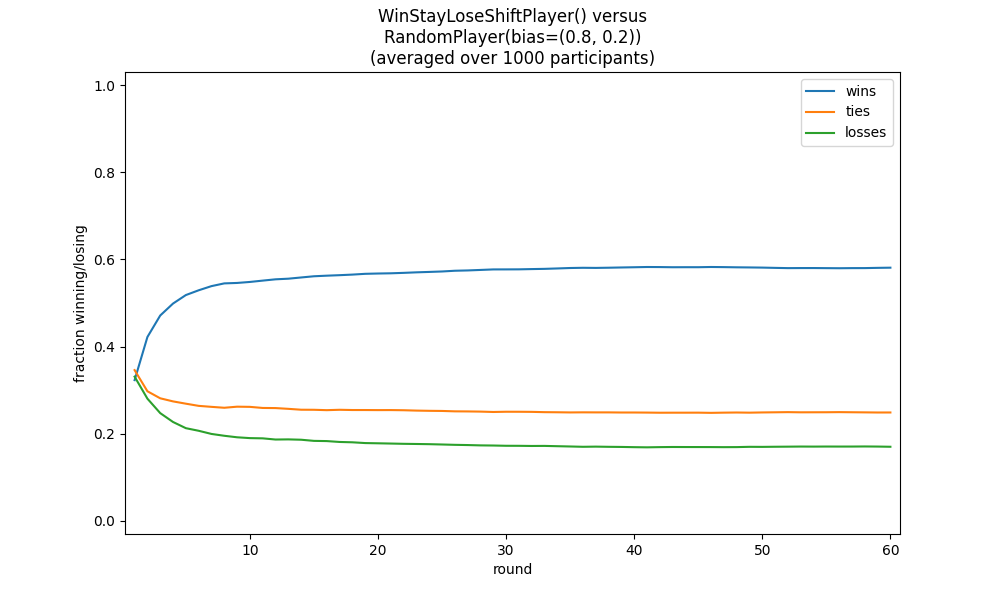
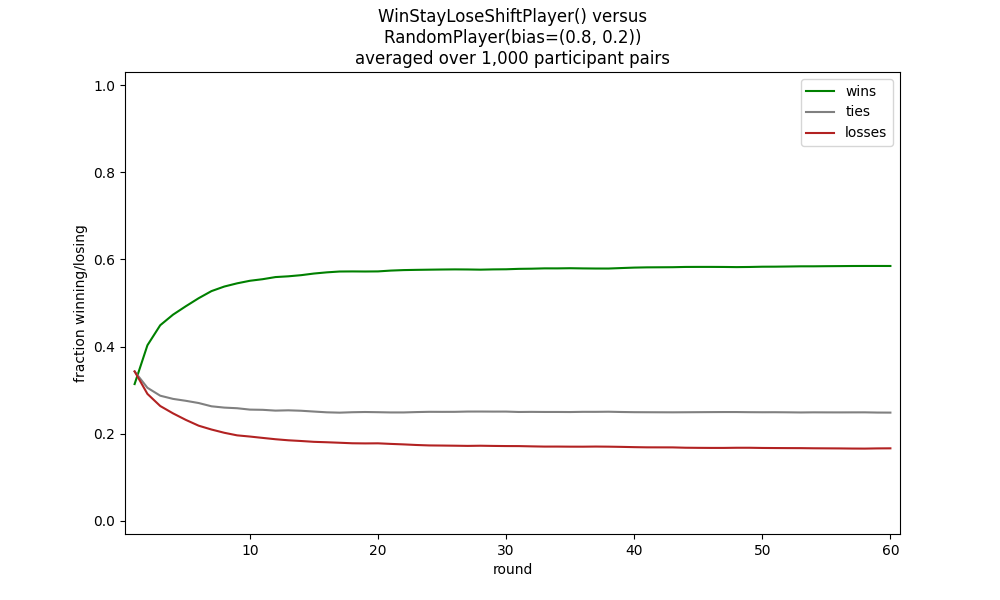
improve the title in the RPS graph slightly

diff --git a/examples/rps/rps_game.py b/examples/rps/rps_game.py
@@ -163,7 +163,7 @@ def main(player1, player2, rounds=1, participants=1, file=None, show_progress=No
     p1, n1 = make_player(player1)
     p2, n2 = make_player(player2)
     plot_wins_losses(RPSGame(p1, p2, rounds, participants).play(show_progress),
-                     title=f"{n1} versus\n{n2}\n(averaged over {participants} participants)",
+                     title=f"{n1} versus\n{n2}\naveraged over {participants:,} participant pairs",
                      file=file)
 
 
